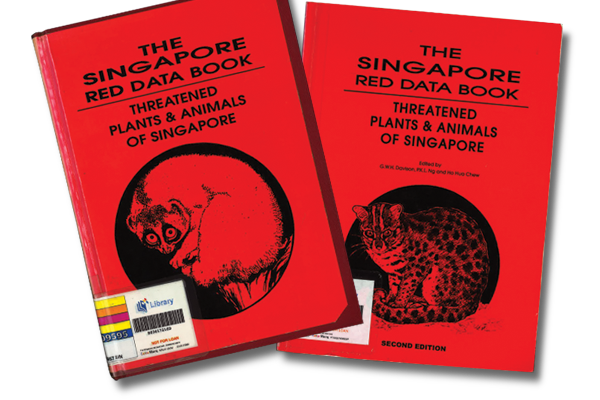
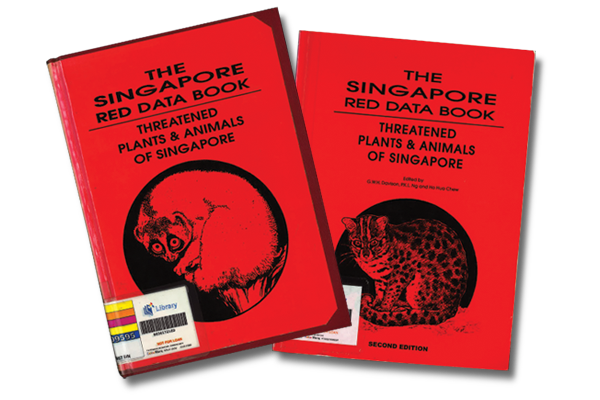
photo upload

diff --git a/articles-archive/features/_posts/vol-17-iss-1-apr-jun-2021/2021-04-09-nature.md b/articles-archive/features/_posts/vol-17-iss-1-apr-jun-2021/2021-04-09-nature.md
@@ -129,7 +129,7 @@ While the state has played an important role in conserving nature by passing leg
 
 <div style="background-color: white;">
 <br/>
-<img src="/images/Vol-17-issue-1/nature/nss.jpg">
+<img src="/images/Vol-17-issue-1/nature/nss.png">
 The Nature Society (Singapore) first published <i>The Singapore Red Data Book: Threatened Plants & Animals of Singapore</i> in 1994. It became an indispensable source of reference for conservation plans and efforts in Singapore. The publication was updated in 2008. <i>Davison, G.W.H., Ng, P.K.L., & Ho, H.C. (Eds.). (2008). The Singapore Red Data Book: Threatened Plants & Animals of Singapore. Singapore: Nature Society. Collection of the National Library, Singapore. (Call no.: RSING 591.68095957 SIN)</i>.
 </div>
 
